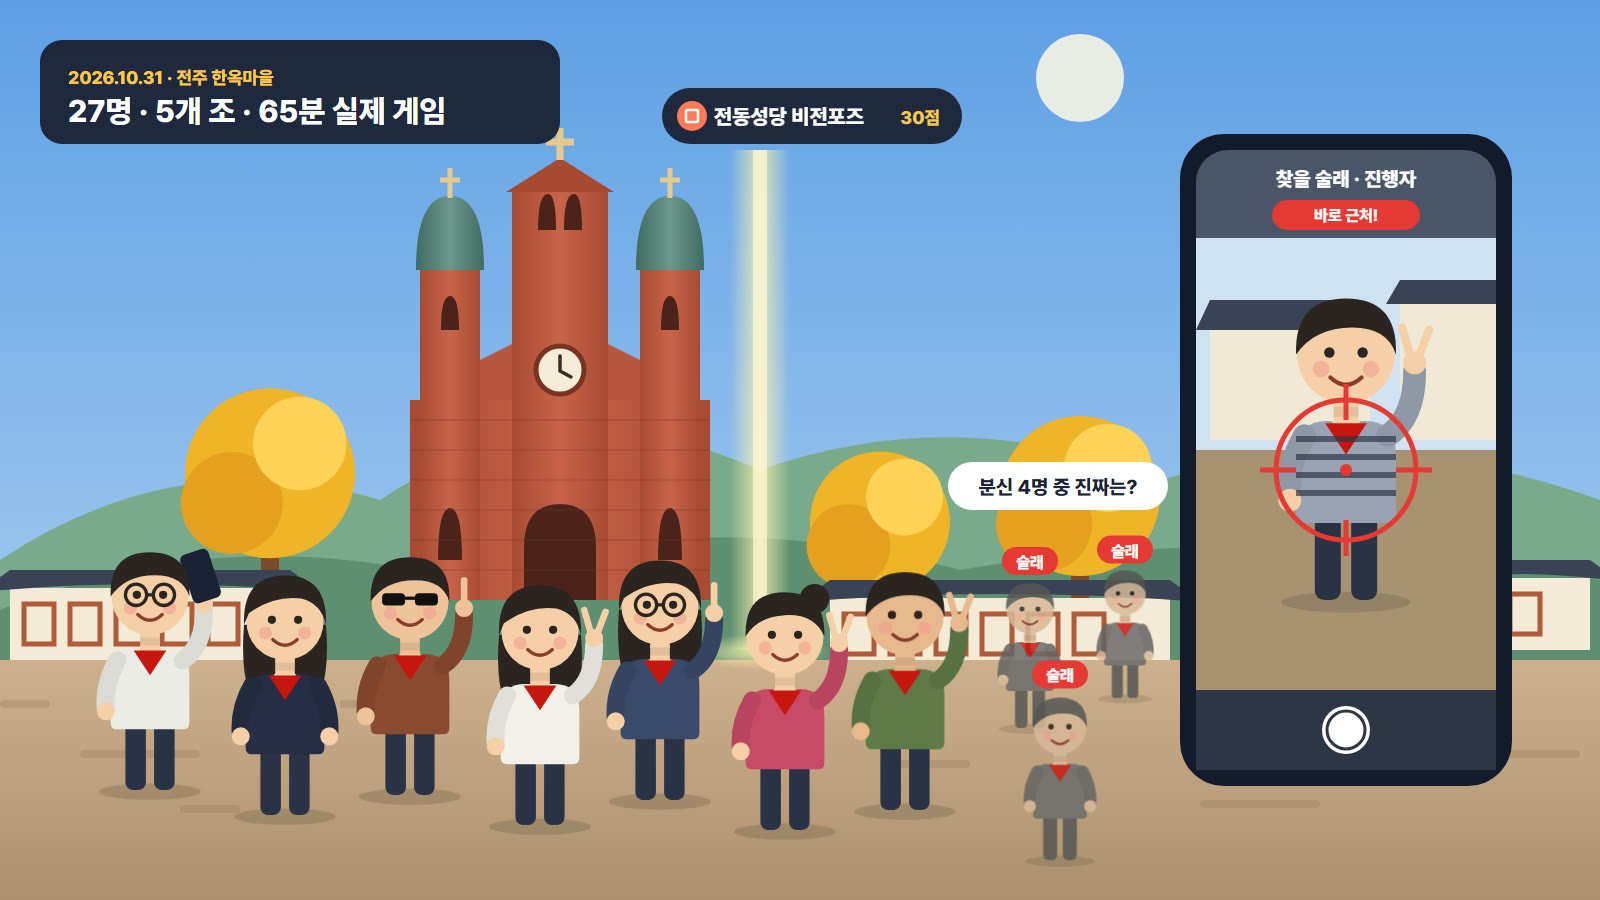
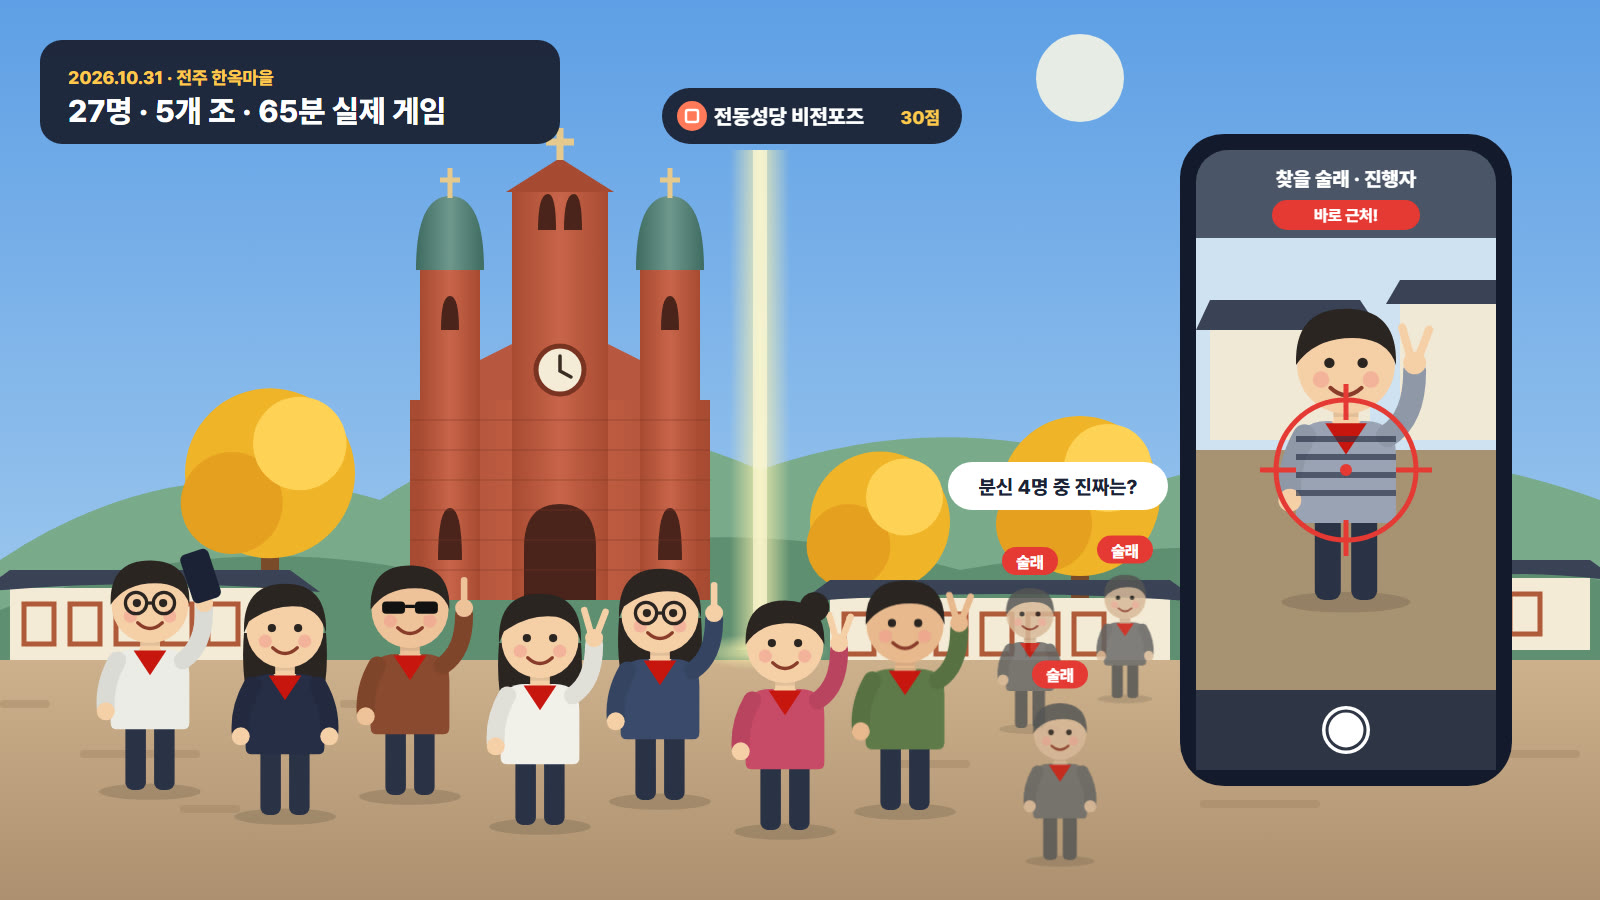
비전 퀘스트 장면 그림: 목 길이 줄임

diff --git a/design/visionquest-scene.html b/design/visionquest-scene.html
@@ -24,7 +24,7 @@ function person(o) {
   g.push(`<g transform="translate(${o.x} ${o.y}) scale(${s})" opacity="${o.op || 1}">`);
   g.push(`<ellipse cx="0" cy="2" rx="62" ry="10" fill="#000" opacity=".12"/>`);
   // 긴 머리(뒤): 어깨 높이까지만, 몸통이 덮는다
-  if (o.style === "long") g.push(`<path d="M-50 -232 Q-54 -180 -44 -150 L44 -150 Q54 -180 50 -232 Z" fill="${hair}"/>`);
+  if (o.style === "long") g.push(`<path transform="translate(0 10)" d="M-50 -232 Q-54 -180 -44 -150 L44 -150 Q54 -180 50 -232 Z" fill="${hair}"/>`);
   // 다리
   g.push(`<rect x="-30" y="-92" width="25" height="92" rx="9" fill="${pants}"/><rect x="5" y="-92" width="25" height="92" rx="9" fill="${pants}"/>`);
   // 목
@@ -44,7 +44,8 @@ function person(o) {
     if (r === "point") g.push(`<path d="M66 -234 L66 -262" stroke="${skin}" stroke-width="8" stroke-linecap="round"/>`);
     if (r === "phone") g.push(`<rect x="44" y="-292" width="36" height="62" rx="7" transform="rotate(-18 62 -260)" fill="#1c2236"/>`);
   }
-  // 머리
+  // 머리: 목이 짧게 보이도록 10 내려 그린다
+  g.push(`<g transform="translate(0 10)">`);
   g.push(`<circle cx="0" cy="-236" r="47" fill="${skin}"/>`);
   if (o.style === "short") g.push(`<path d="M-48 -236 Q-50 -290 0 -290 Q50 -290 48 -236 Q40 -262 6 -262 Q-30 -262 -48 -236 Z" fill="${hair}"/>`);
   if (o.style === "long") g.push(`<path d="M-50 -232 Q-52 -292 0 -292 Q52 -292 50 -232 Q44 -258 20 -264 Q-14 -268 -44 -246 Z" fill="${hair}"/>`);
@@ -58,6 +59,7 @@ function person(o) {
     if (o.glasses) g.push(`<g fill="none" stroke="#2a2422" stroke-width="4"><circle cx="-17" cy="-238" r="13"/><circle cx="17" cy="-238" r="13"/><path d="M-4 -238 L4 -238"/></g>`);
   }
   g.push(`<path d="M-15 -214 Q0 -200 15 -214" fill="none" stroke="#8a3b2b" stroke-width="4" stroke-linecap="round"/>`);
+  g.push(`</g>`);
   g.push(`</g>`);
   if (o.label) g.push(`<g transform="translate(${o.x} ${o.y - 310 * s - 10})"><rect x="-28" y="-16" width="56" height="28" rx="14" fill="#e53935"/><text x="0" y="5" font-size="16" fill="#fff" text-anchor="middle">${o.label}</text></g>`);
   add(g.join(""));
